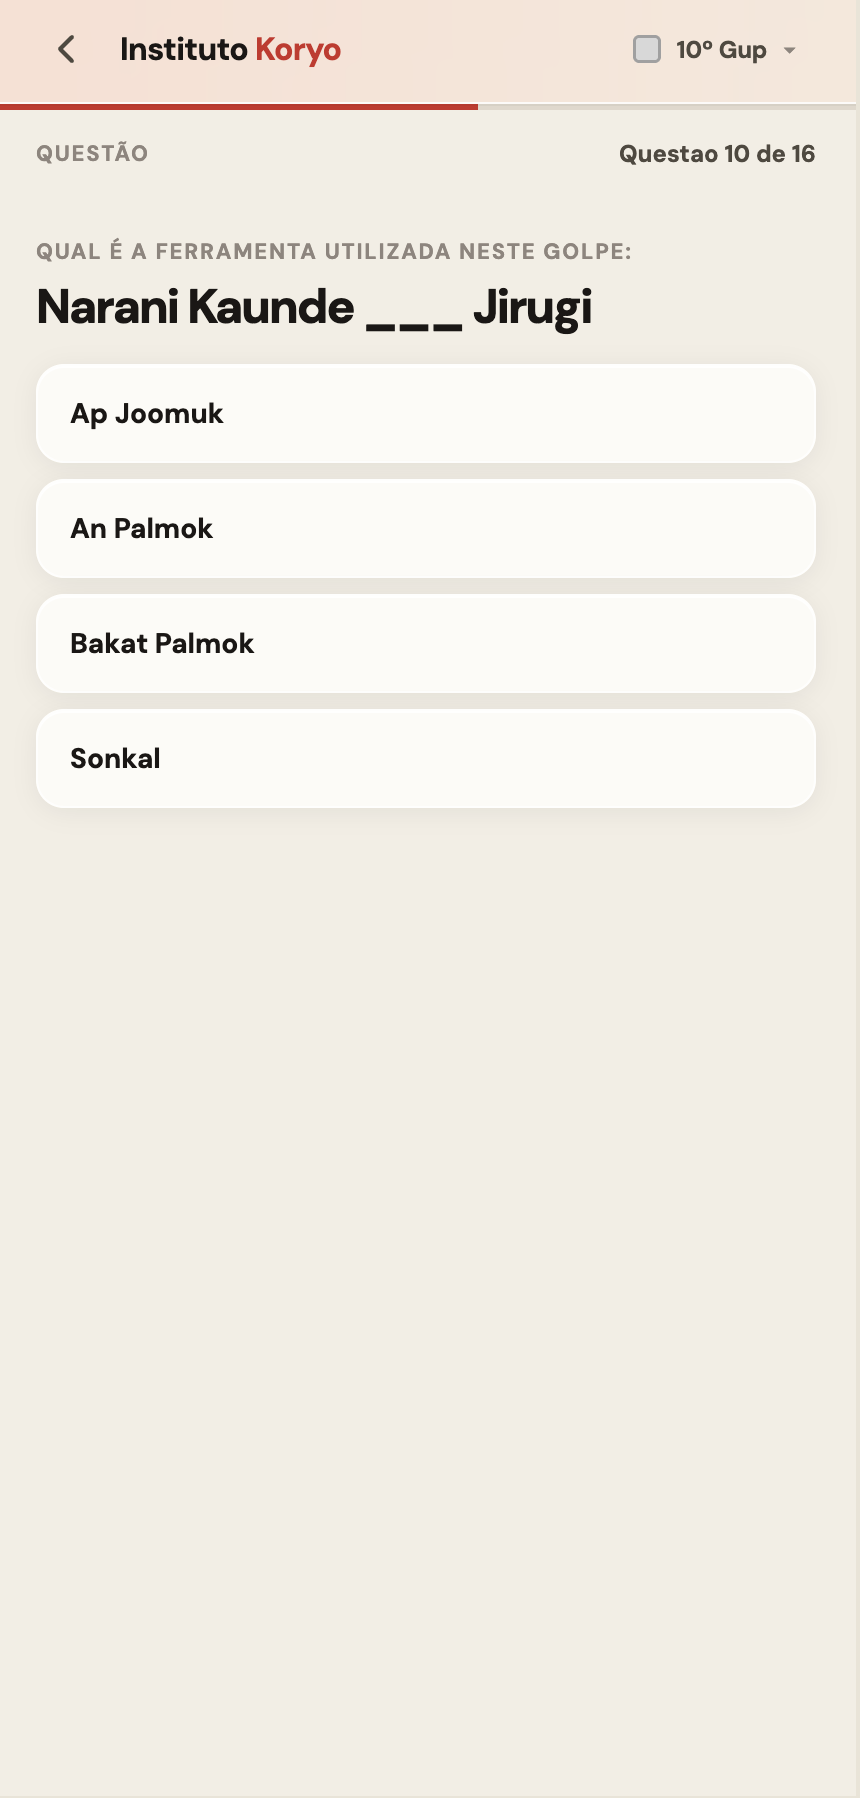
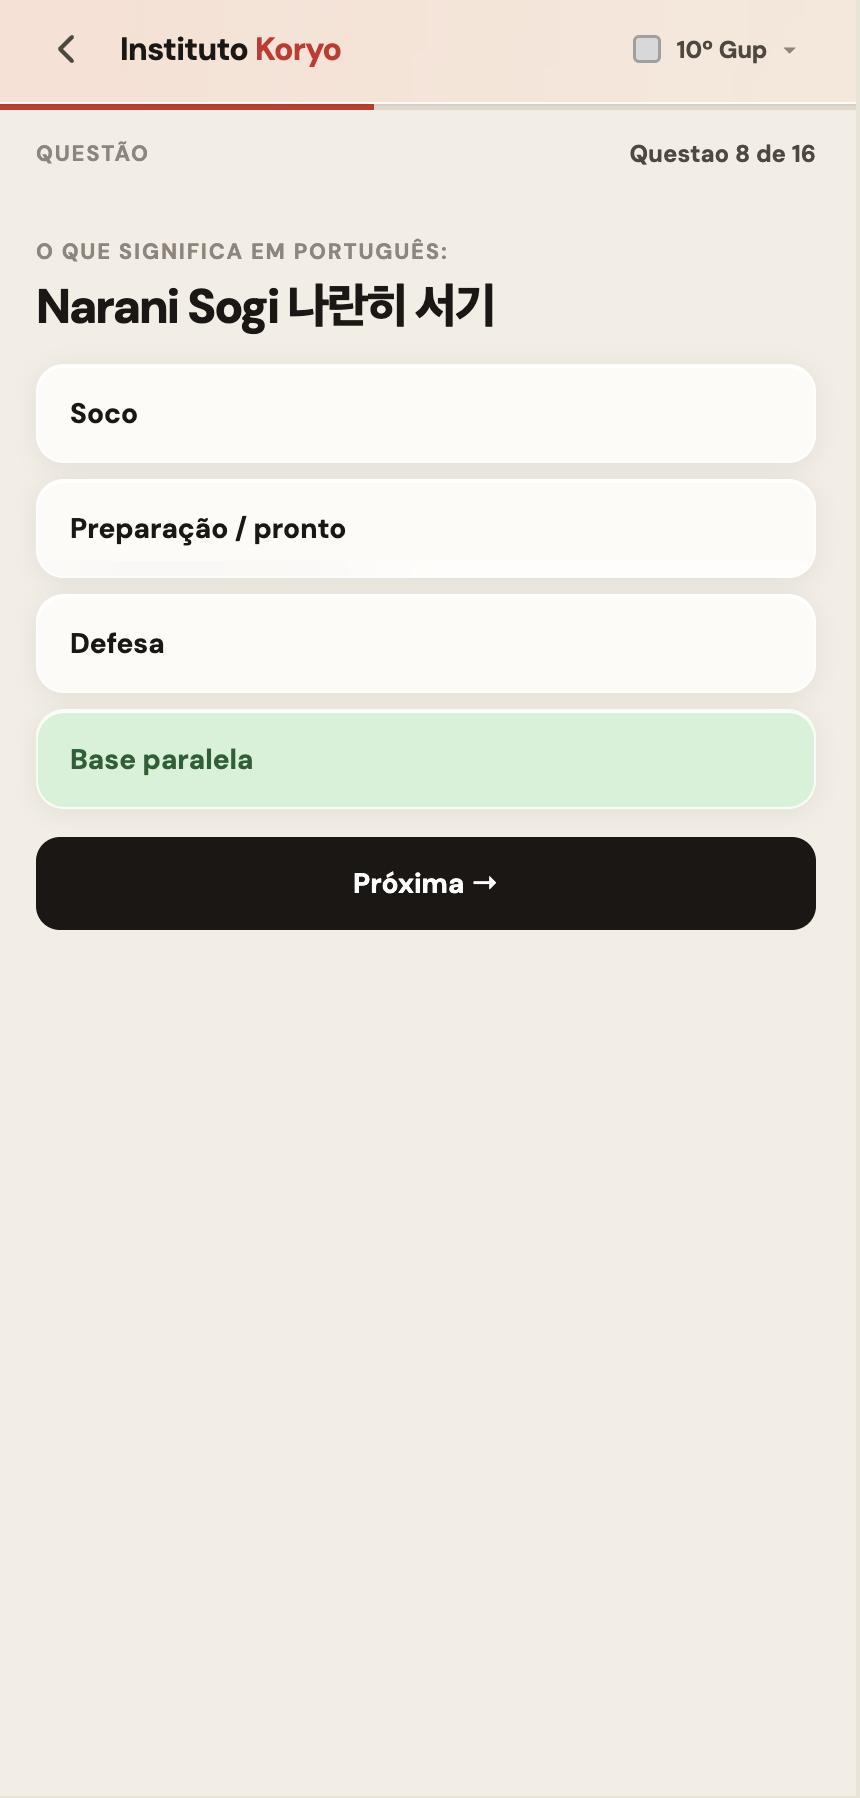
bug fixes

diff --git a/components/case-study/CaseLayout.tsx b/components/case-study/CaseLayout.tsx
@@ -88,7 +88,7 @@ export default function CaseLayout({ data }: { data: CaseStudyData }) {
   }, []);
 
   return (
-    <main id="main-content" style={{ background: "var(--bg)", color: "var(--ink)", minHeight: "100vh", width: "100%", overflowX: "hidden" }}>
+    <main id="main-content" style={{ background: "var(--bg)", color: "var(--ink)", minHeight: "100vh", width: "100%", overflowX: "clip" }}>
 
       {/* NAV */}
       <header className="case-nav" style={{